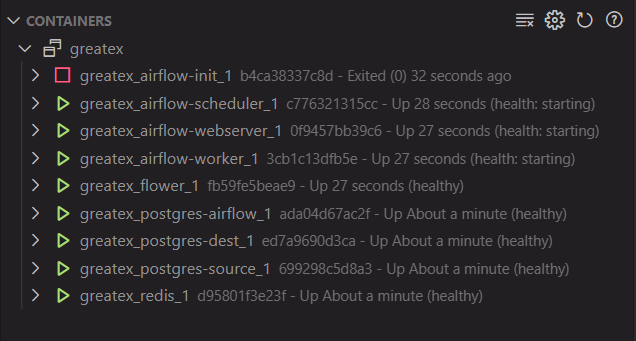
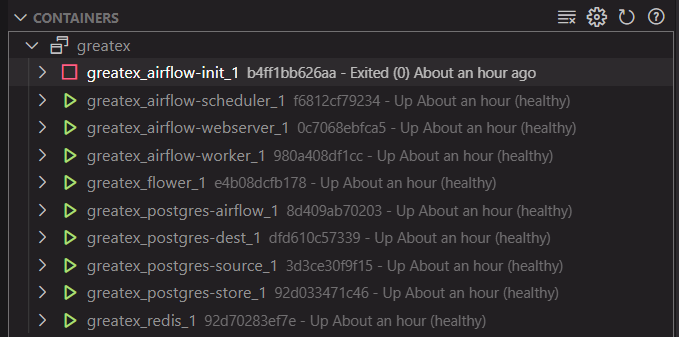
Updated README for several sections

diff --git a/README.md b/README.md
@@ -11,8 +11,8 @@
 
 This project looks at how Great Expectations can be used to ensure data quality within an Airflow
 pipeline. All the databases and Airflow components are designed to run within Docker containers, so that
-it's easy to set it up with a `docker-compose` file. The setup for this architecture is supposed to run on
-Windows OS, but a very similar setup can be done to run on Linux as well.
+it's easy to set it up with a `docker-compose` file. The setup for this architecture contains instructions
+for running on both Windows and Linux OS.
 
 I will be using Great Expectations `v0.13.28` and the Version 3 API, Docker `v20.10.7` (and Docker Desktop in Windows),
 `docker-compose` `v1.29.2`, Python `v3.8.10` for the containers (`v3.9.5` on local machine), and Windows OS (Windows 10).
@@ -30,13 +30,17 @@ The setup was also tested on Ubuntu `v20.04` and can be run by following additio
     ├── dags
     │   ├── scripts
     │   │   ├── python
-    │   │   │   ├── checkpoints.py
-    │   │   │   ├── datasources.py
-    │   │   │   └── expectations.py   
+    │   │   │   ├── retail_dest.py
+    │   │   │   ├── retail_load.py
+    │   │   │   ├── retail_source.py
+    │   │   │   ├── retail_transform.py
+    │   │   │   ├── retail_warehouse.py
+    │   │   │   └── utils.py   
     │   │   └── sql
     │   │       ├── extract_load_retail_source.sql
     │   │       ├── load_retail_stage.sql
-    │   │       └── transform_load_retail_warehouse.sql
+    │   │       ├── transform_load_retail_warehouse.sql
+    │   │       └── validations_store.sql
     │   ├── retail_data_pipeline.py
     │   ├── transformations.py
     │   └── validations.py
@@ -44,7 +48,6 @@ The setup was also tested on Ubuntu `v20.04` and can be run by following additio
     │   ├── destinationdb.sql
     │   └── sourcedb.sql
     ├── debugging
-    │   ├── debug.log
     │   └── logging.ini
     ├── dest-data
     │   └── dummy.txt
@@ -64,9 +67,11 @@ The setup was also tested on Ubuntu `v20.04` and can be run by following additio
     │   │   └── retail_warehouse_checkpoint.yml
     │   ├── expectations
     │   │   ├── .ge_store_backend_id
-    │   │   ├── example_suite.json
     │   │   ├── retail_dest_suite.json
+    │   │   ├── retail_load_suite.json
     │   │   ├── retail_source_suite.json
+    │   │   ├── retail_transform_suite.json
+    │   │   ├── retail_warehouse_suite.json
     │   │   └── test_suite.json
     │   ├── uncommitted
     │   │   └── config_variables.yml
@@ -76,12 +81,14 @@ The setup was also tested on Ubuntu `v20.04` and can be run by following additio
     │   ├── retail_profiling.csv
     │   └── retail_validating.csv
     ├── .dockerignore
+    ├── .env-example
     ├── .gitattributes
     ├── .gitignore
+    ├── airflow_conn.ps1
+    ├── airflow_conn.sh
+    ├── docker-compose.yml
     ├── Dockerfile
     ├── README.md
-    ├── airflow_conn.ps1
-    ├── docker-compose.yml
     └── requirements.txt
 
 ## Setup
@@ -171,19 +178,30 @@ for running Airflow in Docker. I modified it in several different ways:
 
 - An additional environment variable `AIRFLOW_CONN_POSTGRES_DEFAULT` for the Airflow meta database, which I renamed to `postgres-airflow`.
 
+- Specified an environment file `.env` for the `env_file` key.
+
 - I wrote a Dockerfile to extend the image (according to [the official docs](https://airflow.apache.org/docs/docker-stack/build.html#extending-the-image))
-  so that the Great Expectations library and other packages will be installed inside the containers.
+  so that the Great Expectations library and other packages will be installed inside the containers. This means I use the `build`
+  key, with `build: .` to build on the extended image specified in the Dockerfile instead of using the `image` key.
 
-- Added two additional PostgresDB containers `postgres-source` and `postgres-dest` to represent the retail data source and the destination data warehouse.
+- Added three additional PostgresDB containers `postgres-source`, `postgres-dest` and `postgres-store` to represent the
+  retail data source, the destination data warehouse, and the database where the data validation results are stored.
 
-- For Airflow to properly orchestrate these containers, their volumes and port mappings were also specified, e.g. "5433:5432" for the source database so that it
-  won't conflict with Airflow's meta database mapping "5432:5432".
+- For Airflow to properly orchestrate these containers, their volumes and port mappings were also specified, e.g. `5433:5432` for the source database so that it
+  won't conflict with Airflow's meta database mapping `5432:5432`. The hostnames and ports are meant for Airflow containers,
+  but if you want to test the connections locally, use `localhost:543x` with the appropriate ports instead.
+
+  A common (but terrible) error message that pops up when connections are not configured correctly looks like the following, e.g.
+  where it just outputs the Datasource name instead of providing an actual error message:
+
+  ![Error when connecting to or validating retail_source Datasource](assets/images/misconfiguring_hostname_portnumber.png)
 
 - The `great_expectations` folder, `filesystem` folder, `database-setup`, `source-data` and `dest-data` folders also need to be
   mounted as volumes to the appropriate containers so that Airflow can access them.
 
 - The service names for the containers are also their hostnames, so we should keep that in mind
-  (else Docker will keep searching for the wrong services and won't find them). Below, I changed the service name from the default `postgres` to `postgres-airflow`,
+  (else Docker will keep searching for the wrong services and won't find them). Below, I changed the
+  service name from the default `postgres` to `postgres-airflow`,
   so the hostname in the connection strings must also be changed:
 
     ![service_name == hostname](assets/images/service_name_hostname.png)
@@ -261,3 +279,6 @@ done using Python scripts, without any Jupyter Notebooks. I'll be using Great Ex
       - Postgres destination database `destdb` with schema `stage` (`postgres-dest` container), the penultimate location where transformed data is
         staged before moving it to the public schema.
       - Same destination database but with schema `public`, where the final transformed data is located
+
+    Each Datasource has its own Python script in the `dags/scripts/python/` folder where batches of data can be sampled,
+    Expectation Suites created, and Checkpoints can be configured.
